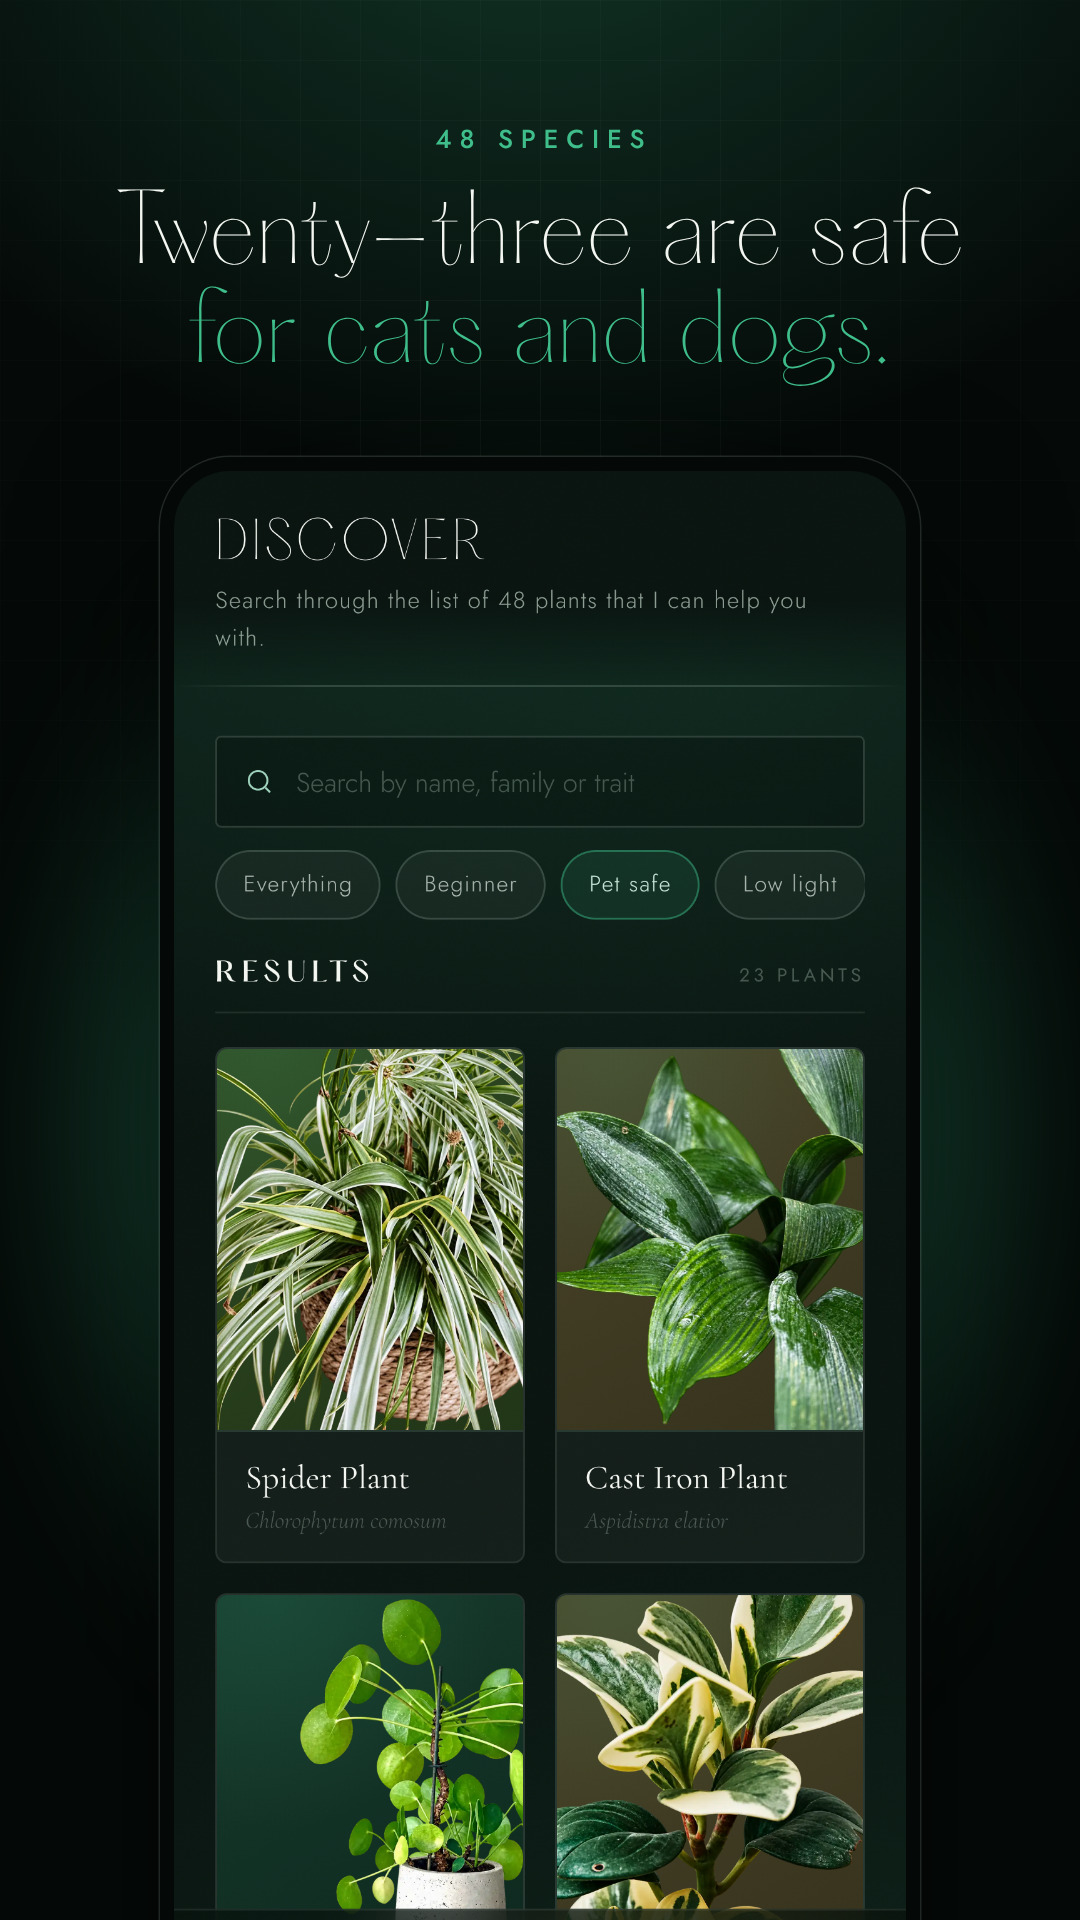
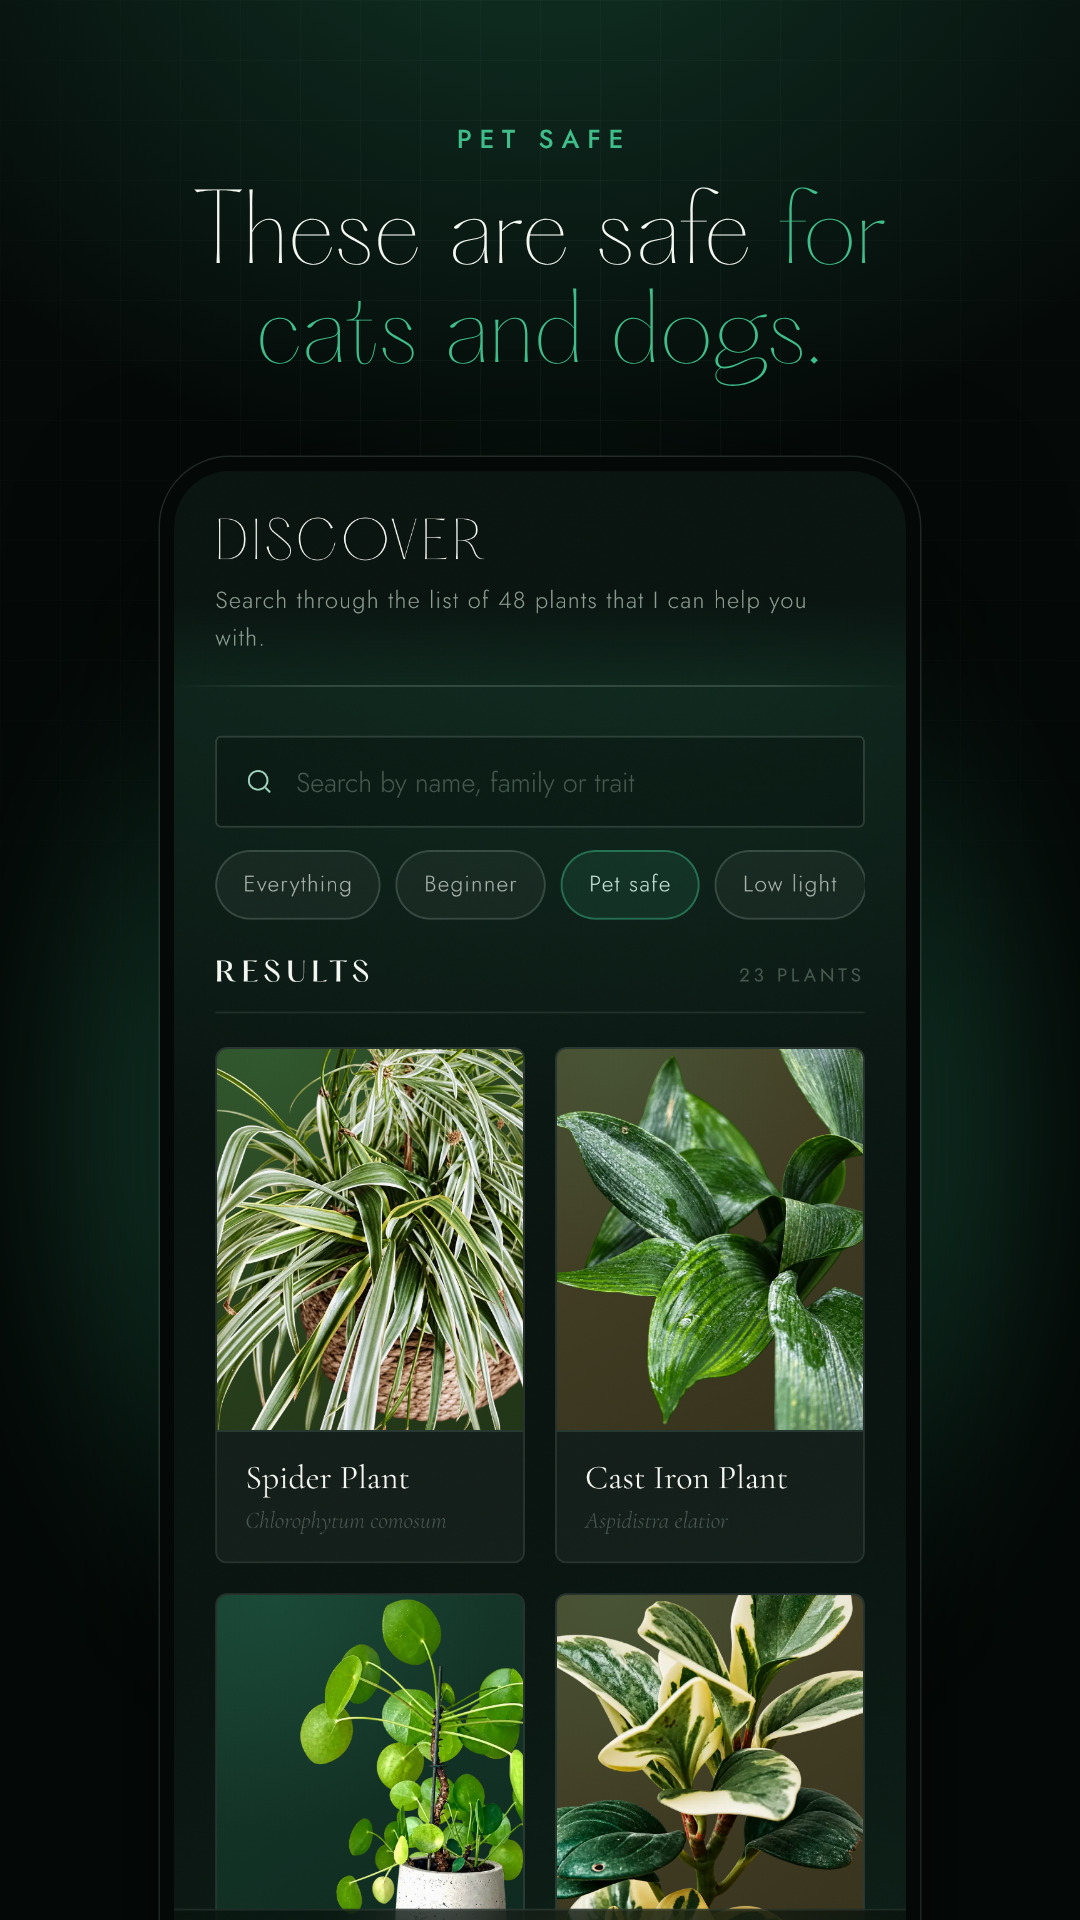
Store listing: "These are safe for cats and dogs", and no species count
The Discover frames said "Twenty-three" and wore a "48 species" eyebrow.
The site deliberately states no count, because the list grows and a
figure goes stale with the first new species; the listing now follows
the same rule. "These" points at the pet-safe results on the screen, and
the eyebrow names the filter that is on.

Claude-Session: https://claude.ai/code/session_012DLV9H2FZvBCCKZzVaFjUg

diff --git a/marketing/store-shots/sets.js b/marketing/store-shots/sets.js
@@ -15,9 +15,10 @@
 //         or a diagnosis: frames on plant, discover and diagnose carry none.
 //
 // Copy rules: British English, no exclamation marks, one contraction a
-// line, and every privacy sentence true to native/store-privacy.md. The
-// figures (48 species, 23 safe for cats and dogs) are the ones
-// .claude/check-species.js holds the site to.
+// line, and every privacy sentence true to native/store-privacy.md. No
+// counts: the species list grows, so like the site the listing never says
+// how many there are or how many are pet safe. "These" points at the
+// pet-safe results on the screen instead, which stay true as the list does.
 (function (root) {
   const SETS = {
     a: { name: 'Final', note: 'The listing. Upload order matches native/store-listing.md.', frames: [
@@ -25,7 +26,7 @@
       { screen: 'greenhouse', eyebrow: 'Room by room', head: 'Care worked out from *where each plant lives.*', glow: 'leaf', layout: 'centre' },
       { screen: 'plan', eyebrow: 'Draw your home', head: 'It knows which rooms are bright, *because you showed it.*', glow: 'sun', layout: 'centre' },
       { screen: 'plant', eyebrow: 'Worth keeping', head: 'A record of the plant, *not just a reminder.*', glow: 'leaf', layout: 'centre' },
-      { screen: 'discover', eyebrow: '48 species', head: 'Twenty-three are safe *for cats and dogs.*', glow: 'leaf', layout: 'centre' },
+      { screen: 'discover', eyebrow: 'Pet safe', head: 'These are safe *for cats and dogs.*', glow: 'leaf', layout: 'centre' },
       { screen: 'diagnose', eyebrow: 'When something looks wrong', head: 'A clinic, *not a search box.*', glow: 'terra', layout: 'centre' },
       { screen: 'caught-up', eyebrow: 'Private by design', head: 'No account. *Your plants stay on your phone.*', glow: 'leaf', layout: 'centre' }
     ] },
@@ -33,7 +34,7 @@
       { screen: 'today', eyebrow: 'Private by design', head: 'No account. *Nothing to sign in to.*', sub: 'Your plants, rooms and photos stay on your phone.', glow: 'leaf', layout: 'centre', sprout: 'corner' },
       { screen: 'plan', eyebrow: 'Draw your home', head: 'Your floor plan *never leaves the house.*', sub: 'Light is worked out on the phone, from the windows you mark.', glow: 'sun', layout: 'centre' },
       { screen: 'plant', eyebrow: 'Worth keeping', head: 'Photos and a diary, *kept on the device.*', sub: 'A backup goes only where you send it.', glow: 'leaf', layout: 'centre' },
-      { screen: 'discover', eyebrow: '48 species', head: 'Rated for cats, dogs *and people, separately.*', sub: 'Twenty-three are safe for both cats and dogs.', glow: 'leaf', layout: 'centre' },
+      { screen: 'discover', eyebrow: 'Pet safe', head: 'Rated for cats, dogs *and people, separately.*', sub: 'The pet-safe ones are a tap away.', glow: 'leaf', layout: 'centre' },
       { screen: 'diagnose', eyebrow: 'Works offline', head: 'A diagnosis *with no signal at all.*', sub: 'Only the weather forecast needs a connection.', glow: 'terra', layout: 'centre' },
       { screen: 'caught-up', eyebrow: 'Reminders', head: 'Reminders from your phone, *not from a server.*', sub: 'Your phone schedules them itself. There\'s no account behind them.', glow: 'leaf', layout: 'centre' }
     ] },
@@ -42,7 +43,7 @@
       { screen: 'greenhouse', eyebrow: 'Room by room', head: 'Every room *knows its light.*', glow: 'leaf', layout: 'tilt' },
       { screen: 'plan', eyebrow: 'Draw your home', head: 'Not dying, *just in the wrong room.*', glow: 'sun', layout: 'tilt' },
       { screen: 'plant', eyebrow: 'Worth keeping', head: 'Toxic to cats? *It says so up front.*', glow: 'leaf', layout: 'tilt', pop: 'plant-chips' },
-      { screen: 'discover', eyebrow: '48 species', head: 'Twenty-three *safe for cats and dogs.*', glow: 'leaf', layout: 'tilt' },
+      { screen: 'discover', eyebrow: 'Pet safe', head: 'These are safe *for cats and dogs.*', glow: 'leaf', layout: 'tilt' },
       { screen: 'diagnose', eyebrow: 'When something looks wrong', head: 'Yellow leaves? *Causes ranked for that plant.*', glow: 'terra', layout: 'tilt', pop: 'diagnose-cause' },
       { screen: 'caught-up', eyebrow: 'All caught up', head: 'Some days, *nothing needs you.*', glow: 'leaf', layout: 'tilt' }
     ] }

diff --git a/marketing/store-shots/README.md b/marketing/store-shots/README.md
@@ -51,9 +51,10 @@ experiments against it.
   stay on your phone" is safe because a location, the one thing that
   leaves, is not about the plants. Do not write "nothing leaves the
   phone".
-- **The figures are the ones `.claude/check-species.js` holds the site
-  to:** 48 species, 23 safe for both cats and dogs. Discover's "Pet safe"
-  filter is the same test, so the screen and the headline agree.
+- **No counts.** The species list grows, so, like the site, the listing
+  never says how many species there are or how many are pet safe. The
+  Discover frames say "these" over the "Pet safe" results instead, and
+  that filter is the same both-safe test the site's tags use.
 
 ## Rebuilding
 
